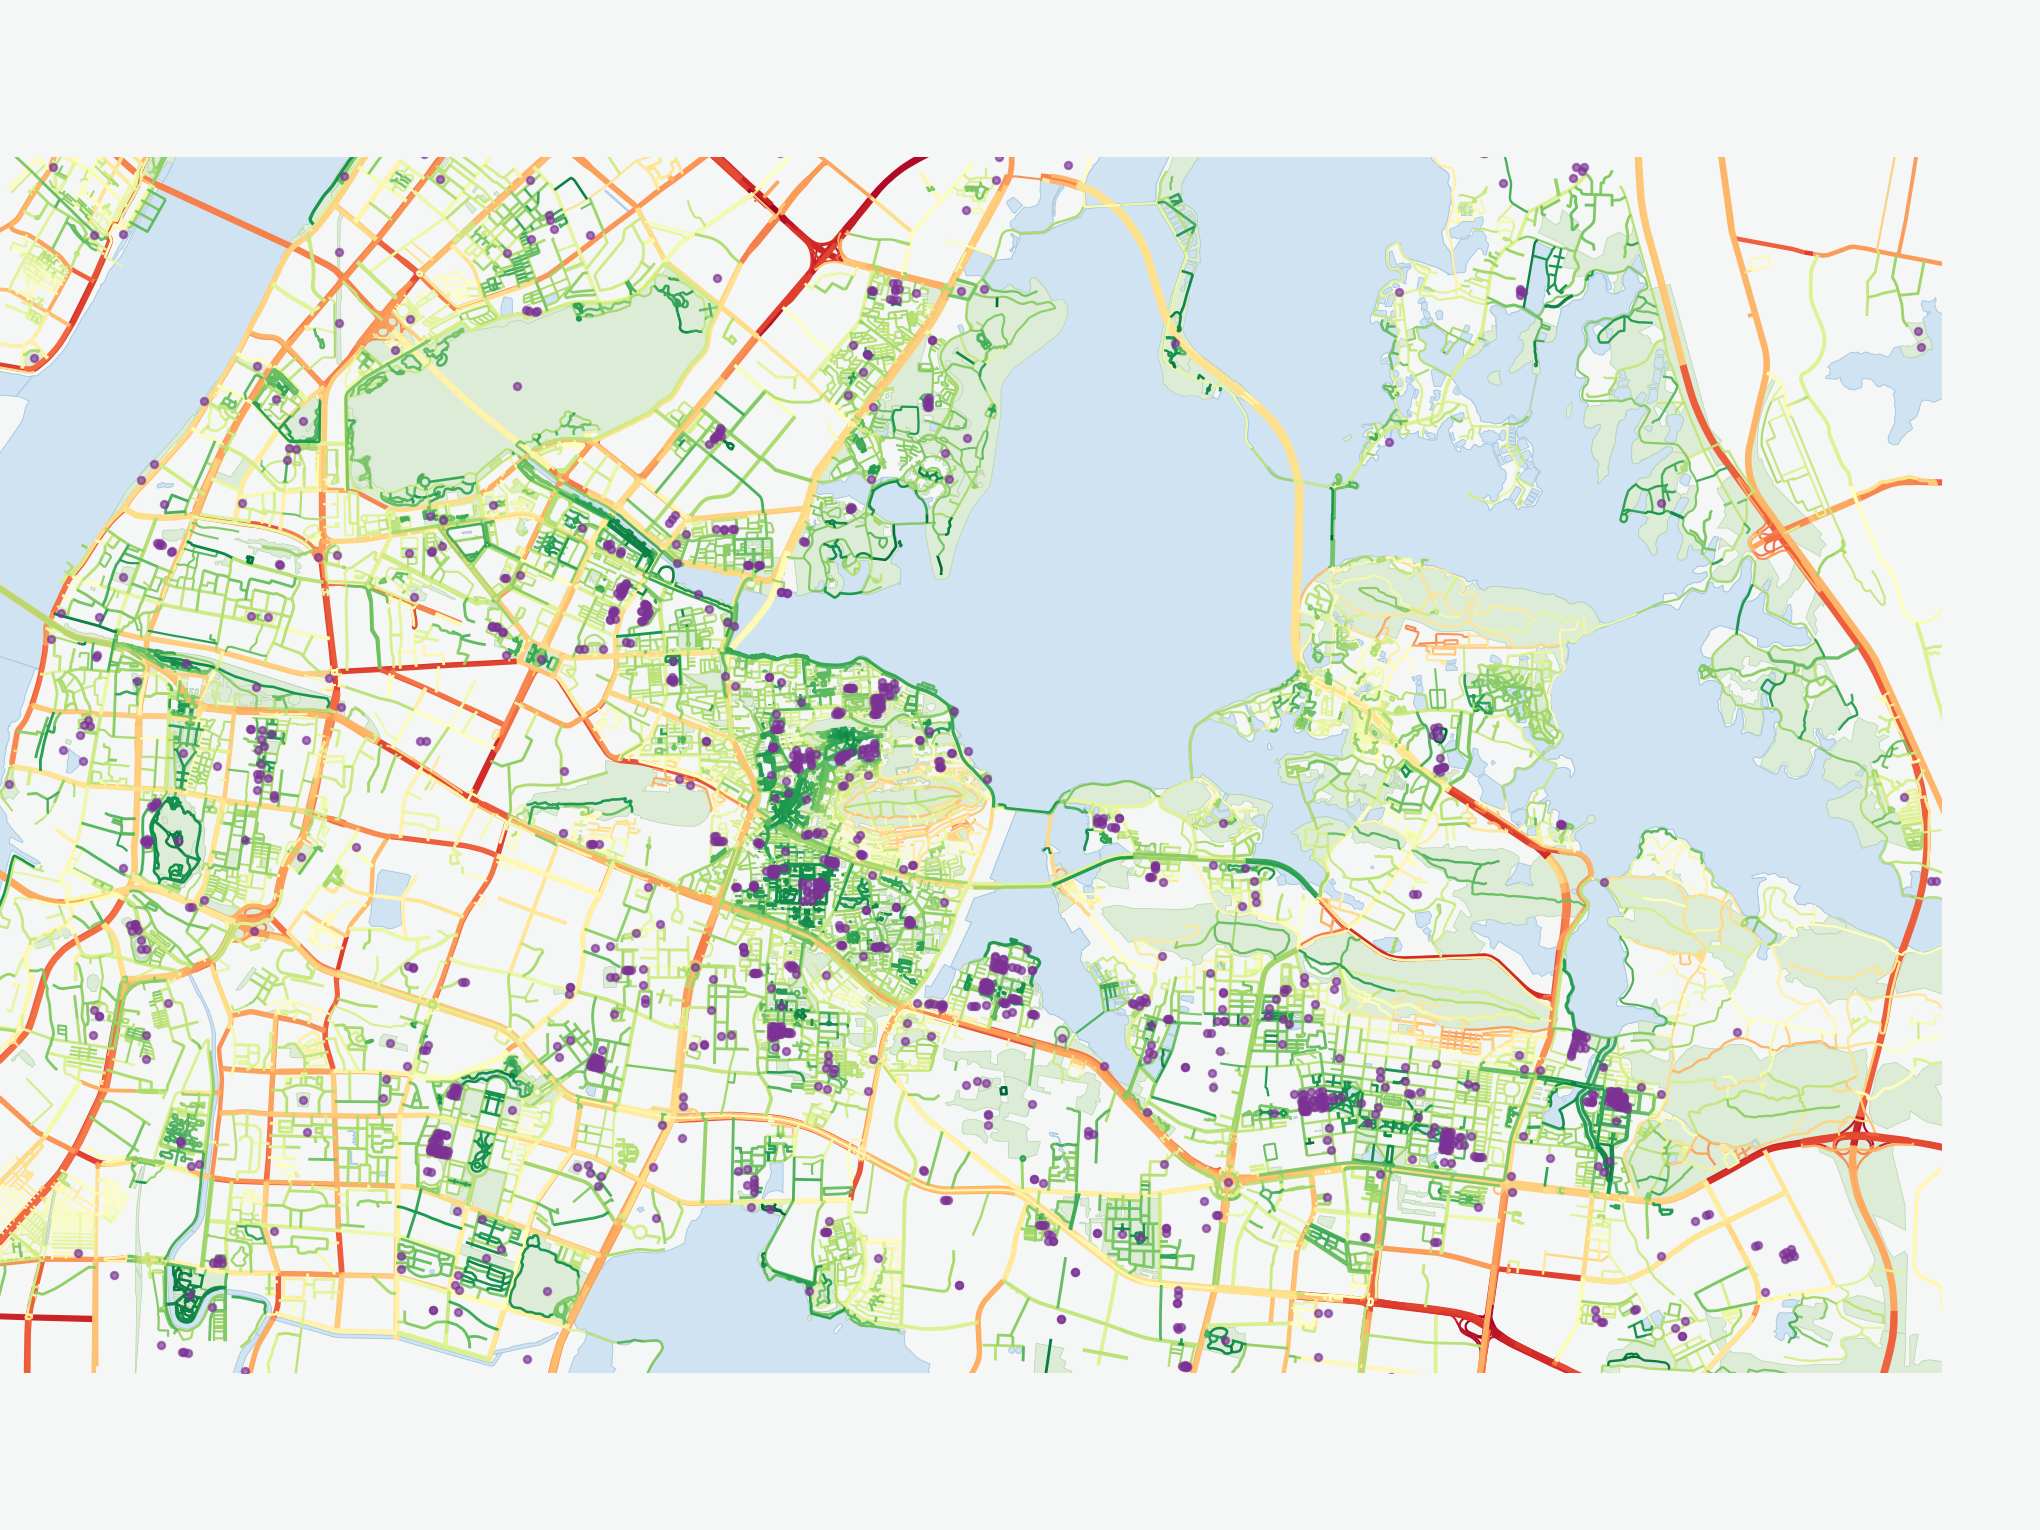
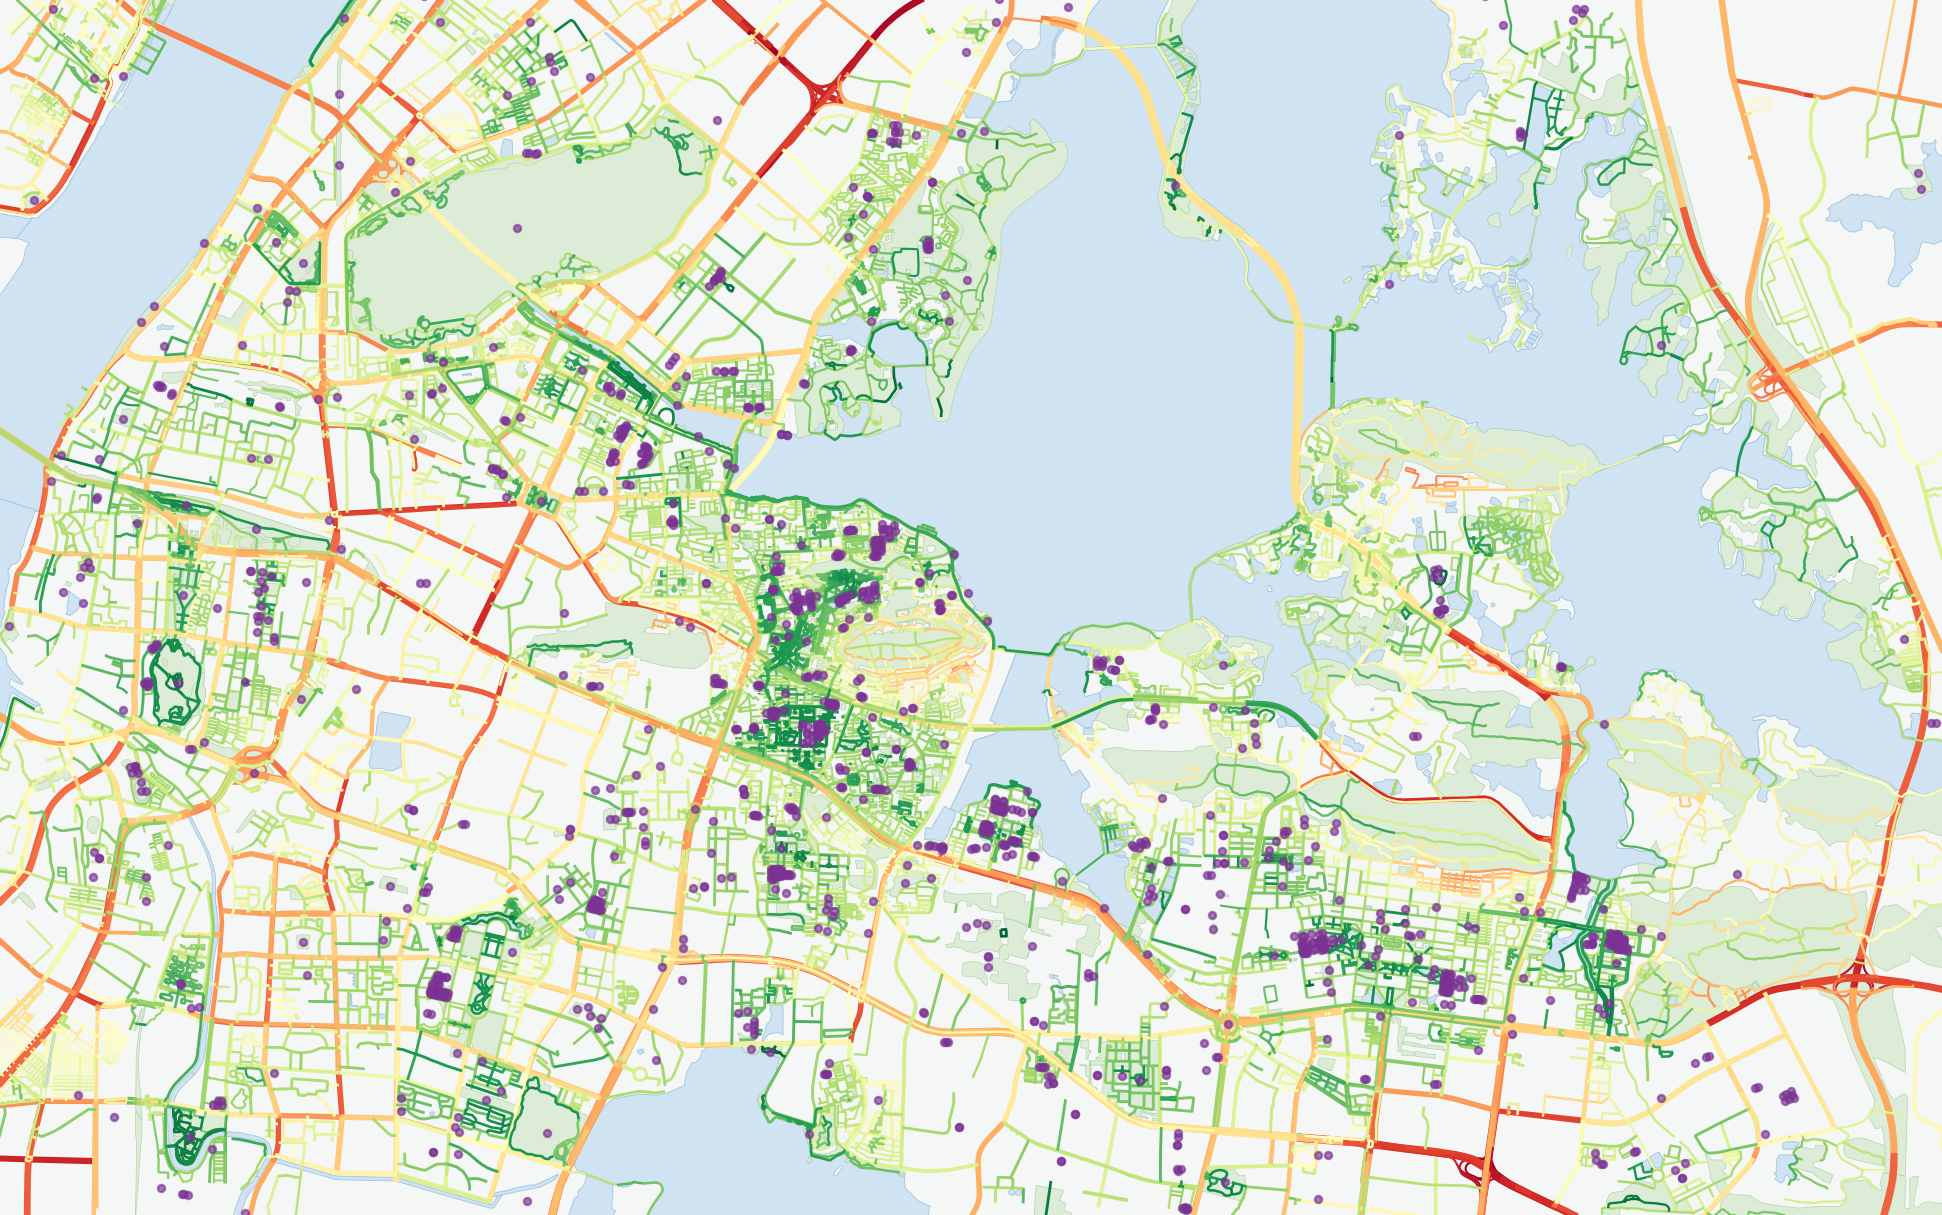
docs: 交接说明记录选题调整

diff --git a/backend/scripts/plot_running_map.py b/backend/scripts/plot_running_map.py
@@ -112,7 +112,7 @@ def main() -> int:
     fig.set_size_inches(12, 9)
     fig.subplots_adjust(left=0, right=1, top=1, bottom=0)
     layer = OUT / "map_layer.png"
-    fig.savefig(layer, pad_inches=0, facecolor="#f4f7f6")
+    fig.savefig(layer, bbox_inches="tight", pad_inches=0, facecolor="#f4f7f6")
     print("wrote", layer.relative_to(ROOT))
     print(f"segments in view: {len(seg)}")
     return 0

diff --git a/项目进度与交接说明.md b/项目进度与交接说明.md
@@ -3,7 +3,14 @@
 更新日期：2026-10-20  
 项目：武汉个性化等时圈与区位评估平台  
 项目根目录：`E:\MyProject\等时圈交通可达性分析系统`  
-当前阶段：**数据准备已完成并冻结为 v1，核心网络分析与等时圈算法尚未开始，前端和 PPT 未开始**
+当前阶段：**选题已调整（见下），数据/图/算法内核沿用，慢跑适宜性原型 v0 已出图**
+
+> **2026-10-24 选题调整**：原「等时圈」选题被其他组占用，改为
+> **城市慢跑/慢骑环境适宜性评价与路线推荐**，研究方法与既有资产（路网、图、POI、
+> 时间面）继续复用，目标函数从时间可达换成环境适宜。
+> 已完成：SRTM 高程 → 路段坡度（91,203 段）、五维评分数据集、东湖片区评价图、
+> 前端原型截图（data/output/ui/round-1/desktop.png）。
+> 数据补充与缺口见 docs/数据补充清单.md。
 
 ---
 
